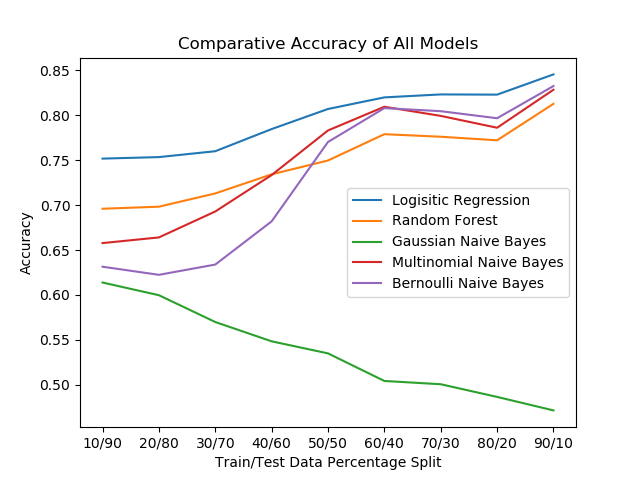
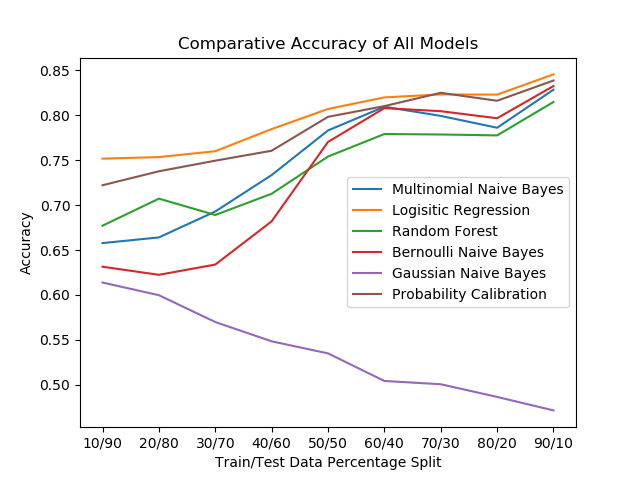
Added Probability Calibration model analysis and added support for multithreading between classifier analysis

diff --git a/generateModels.py b/generateModels.py
@@ -4,14 +4,16 @@ from sklearn.feature_extraction.text import CountVectorizer
 from sklearn.linear_model import LogisticRegression
 from sklearn.ensemble import RandomForestClassifier
 from sklearn.naive_bayes import GaussianNB, MultinomialNB, BernoulliNB
+from sklearn.calibration import CalibratedClassifierCV
 from numpy import arange, split
-from collections import OrderedDict
+from collections import OrderedDict 
 from matplotlib import pyplot
+from concurrent.futures import ThreadPoolExecutor
 
 def main():
     models = OrderedDict([('Logisitic Regression', LogisticRegression()), ('Random Forest', RandomForestClassifier(n_jobs = -1)), 
                           ('Gaussian Naive Bayes', GaussianNB()), ('Multinomial Naive Bayes', MultinomialNB()),
-                          ('Bernoulli Naive Bayes', BernoulliNB())])
+                          ('Bernoulli Naive Bayes', BernoulliNB()), ('Probability Calibration', CalibratedClassifierCV())])
     modelAccuracies = OrderedDict()
     modelXvals = None
     dataFile = Path('Data/Tweets.csv')
@@ -20,29 +22,10 @@ def main():
     X = vectorizer.fit_transform(data.text.values).toarray()
     Y = data.airline_sentiment.values
     dataPcts = [(x * 100 * .1) / 100 for x in range(1, 10)]
-    figCount = 0
-    for key, model in models.items():
-        accuracies = OrderedDict()
-        for trainPct, testPct in zip(dataPcts, dataPcts[::-1]):
-            trainVal = int(X.shape[0] * trainPct)
-            testVal = int(X.shape[0] * testPct)
-            accKey = '{}/{}'.format(int(trainPct * 100), int(testPct * 100))
-            Xtrain = X[0:trainVal]
-            Ytrain = Y[0:trainVal]
-            Xtest = X[trainVal:]
-            Ytest = Y[trainVal:]
-            accuracies[accKey] = model.fit(Xtrain, Ytrain).score(Xtest, Ytest)
-        modelAccuracies[key] = accuracies
-        pyplot.figure(figCount)
-        pyplot.plot(accuracies.keys(), accuracies.values())
-        pyplot.ylabel('Accuracy')
-        pyplot.xlabel('Train/Test Data Percentage Split')
-        pyplot.title('{} Accuracy'.format(key))
-        pyplot.savefig('Model Results/{} Accuracy.png'.format(key))
-        figCount += 1
-        print('Finished {} analysis'.format(key))
-    figCount += 1
-    pyplot.figure(figCount)
+    with ThreadPoolExecutor(max_workers = len(models)) as executor:
+        for key, model, count in zip(models.keys(), models.values(), range(len(models))):
+            executor.submit(compute, X, Y, model, dataPcts, modelAccuracies, key, count)
+    pyplot.figure(len(models) + 1)
     pyplot.ylabel('Accuracy')
     pyplot.xlabel('Train/Test Data Percentage Split')
     pyplot.title('Comparative Accuracy of All Models')
@@ -50,6 +33,27 @@ def main():
         pyplot.plot(accuracy.keys(), accuracy.values(), label = modelName)
     pyplot.legend()
     pyplot.savefig('Model Results/Comparative Accuracy.png')
+
+def compute(X, Y, model, dataPcts, modelAccuracies, key, figCount):
+    accuracies = OrderedDict()
+    for trainPct, testPct in zip(dataPcts, dataPcts[::-1]):
+        trainVal = int(X.shape[0] * trainPct)
+        testVal = int(X.shape[0] * testPct)
+        accKey = '{}/{}'.format(int(trainPct * 100), int(testPct * 100))
+        Xtrain = X[0:trainVal]
+        Ytrain = Y[0:trainVal]
+        Xtest = X[trainVal:]
+        Ytest = Y[trainVal:]
+        accuracies[accKey] = model.fit(Xtrain, Ytrain).score(Xtest, Ytest)
+    modelAccuracies[key] = accuracies
+    pyplot.figure(figCount)
+    pyplot.plot(accuracies.keys(), accuracies.values())
+    pyplot.ylabel('Accuracy')
+    pyplot.xlabel('Train/Test Data Percentage Split')
+    pyplot.title('{} Accuracy'.format(key))
+    pyplot.savefig('Model Results/{} Accuracy.png'.format(key))
+    figCount += 1
+    print('Finished {} analysis'.format(key))
 
 if __name__ == '__main__':
     main()

diff --git a/README.md b/README.md
@@ -1,2 +1,5 @@
 # CFA-Sentiment-Analysis
 An analytical approach to decide sentiment on Twitter tweets
+
+# Model Analysis
+Each model has underwent a test of accuracy to show which configuration will be suited best for model selection which can be viewed in the "Model Results Folder"
